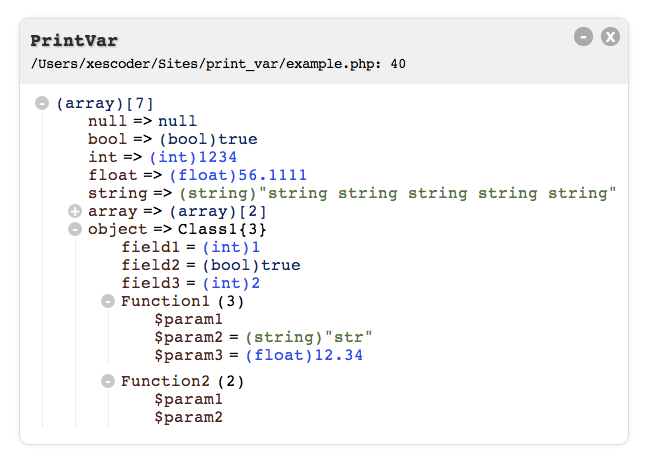
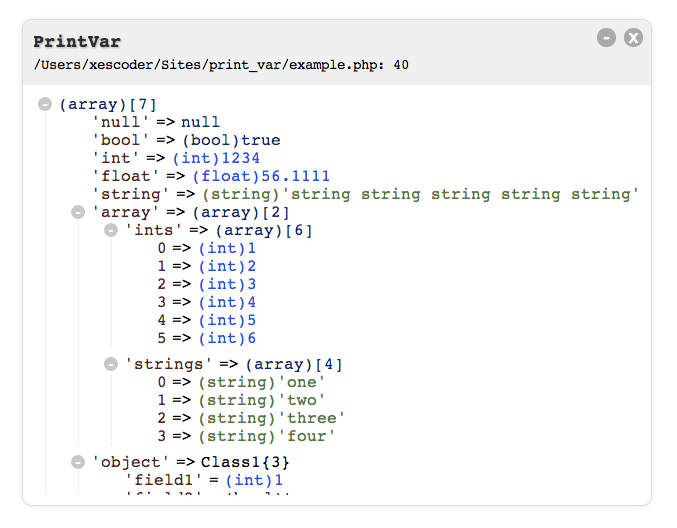
edit print_var

diff --git a/print_var.php b/print_var.php
@@ -456,14 +456,18 @@ class PrintVarService{
 
     private function PrintName($name, $prefix=null){
         if(is_null($name)) return;
+
         print '<span class="name">';
 
         if($prefix) print $prefix;
+        if(!$prefix && is_string($name)) print "'";
 
         if($name === 0) print '0';
         else if($name === false) print 'false';
-        else if($name === '') print '""';
+        else if($name === '') print "''";
         else print $name;
+
+        if(!$prefix && is_string($name)) print "'";
 
         print '</span>';
     }
@@ -556,9 +560,9 @@ class PrintVarService{
     }
 
     private function PrintString($var){
-        print '<span class="value string">"';
+        print '<span class="value string">\'';
         print $var ? $var : '';
-        print '"</span>';
+        print '\'</span>';
     }
 
     private function PrintArray($var){
